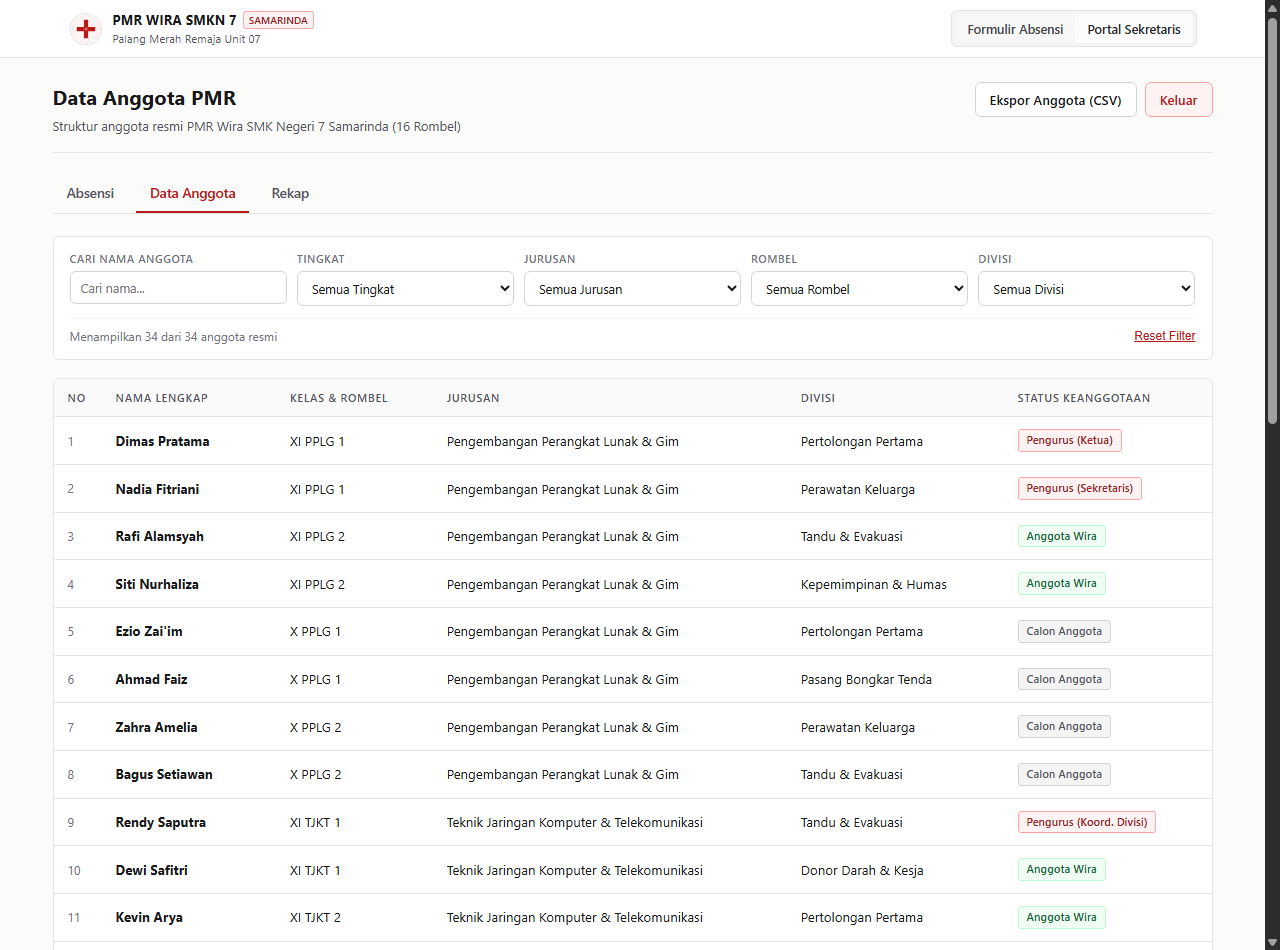
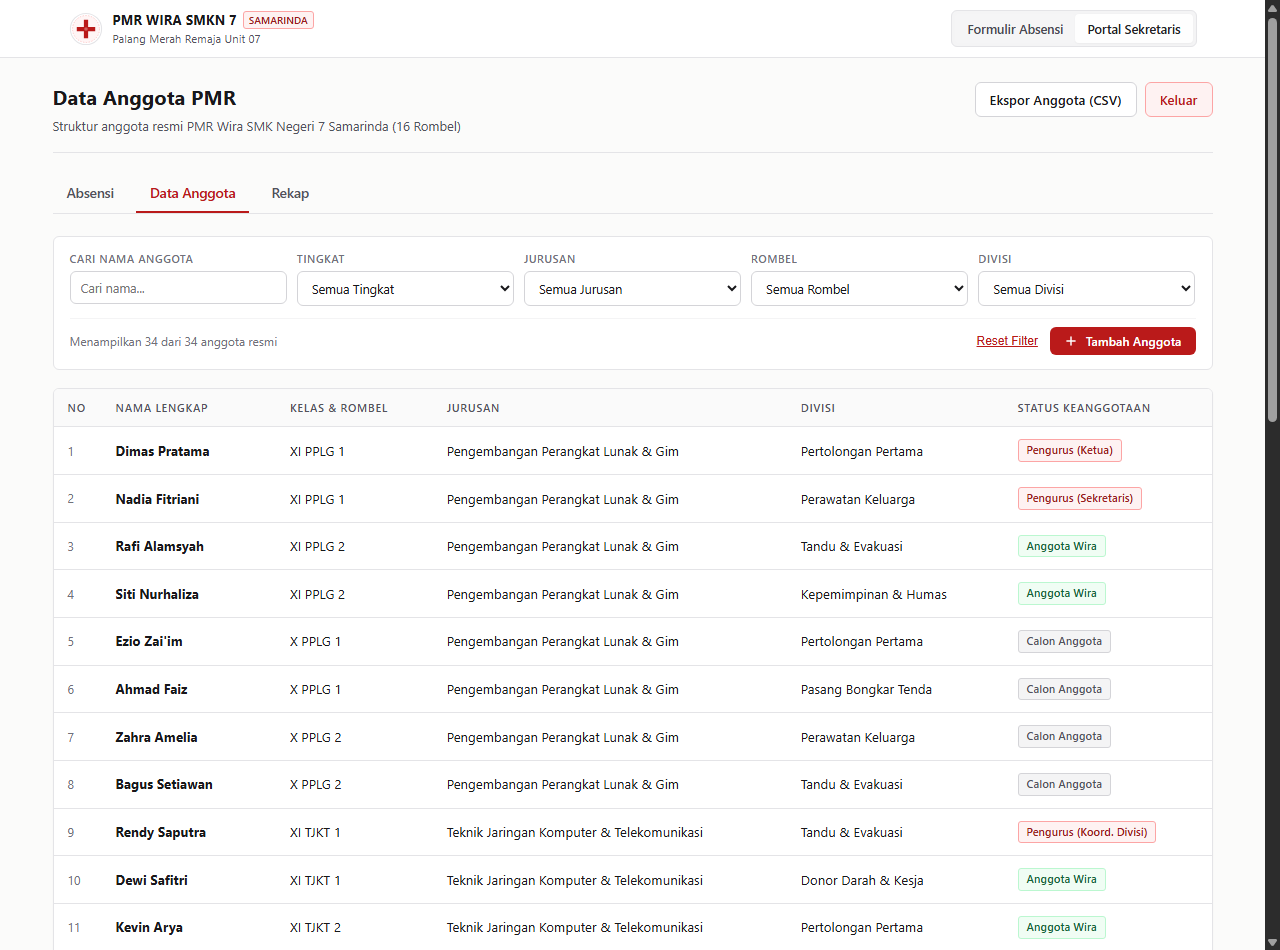
Update add fiture

diff --git a/js/app.js b/js/app.js
@@ -133,7 +133,8 @@ document.addEventListener('DOMContentLoaded', () => {
       return;
     }
 
-    state.filteredAutocompleteList = DUMMY_MEMBERS.filter(m => {
+    const allMembers = getStoredMembers();
+    state.filteredAutocompleteList = allMembers.filter(m => {
       return m.nama.toLowerCase().includes(cleanQuery) ||
              m.kelas.toLowerCase().includes(cleanQuery) ||
              m.jurusan.toLowerCase().includes(cleanQuery);
@@ -875,7 +876,8 @@ document.addEventListener('DOMContentLoaded', () => {
     const rombel = filterAnggotaRombel.value;
     const divisi = filterAnggotaDivisi.value;
 
-    return DUMMY_MEMBERS.filter(m => {
+    const allMembers = getStoredMembers();
+    return allMembers.filter(m => {
       if (q && !m.nama.toLowerCase().includes(q)) return false;
       if (tingkat !== 'all' && m.tingkat !== tingkat) return false;
       if (jurusan !== 'all' && m.jurusan !== jurusan) return false;
@@ -890,9 +892,10 @@ document.addEventListener('DOMContentLoaded', () => {
     const countEl = document.getElementById('anggotaCountText');
     if (!tbody) return;
 
+    const allMembers = getStoredMembers();
     const filtered = getFilteredMembers();
     tbody.innerHTML = '';
-    countEl.textContent = `Menampilkan ${filtered.length} dari ${DUMMY_MEMBERS.length} anggota resmi`;
+    countEl.textContent = `Menampilkan ${filtered.length} dari ${allMembers.length} anggota resmi`;
 
     if (filtered.length === 0) {
       tbody.innerHTML = `
@@ -947,8 +950,9 @@ document.addEventListener('DOMContentLoaded', () => {
     const jurusan = filterRekapJurusan.value;
     const divisi = filterRekapDivisi.value;
 
+    const allMembers = getStoredMembers();
     // Filter anggota sesuai kriteria
-    const members = DUMMY_MEMBERS.filter(m => {
+    const members = allMembers.filter(m => {
       if (tingkat !== 'all' && m.tingkat !== tingkat) return false;
       if (jurusan !== 'all' && m.jurusan !== jurusan) return false;
       if (divisi !== 'all' && m.divisi !== divisi) return false;
@@ -1095,11 +1099,151 @@ document.addEventListener('DOMContentLoaded', () => {
     });
   }
 
+  // =========================================================================
+  // MODAL 3: TAMBAH ANGGOTA BARU (PORTAL SEKRETARIS)
+  // =========================================================================
+  const openAddMemberModalBtn = document.getElementById('openAddMemberModalBtn');
+  const addMemberModal = document.getElementById('addMemberModal');
+  const addMemberModalCloseBtn = document.getElementById('addMemberModalCloseBtn');
+  const addMemberModalCancelBtn = document.getElementById('addMemberModalCancelBtn');
+  const addMemberForm = document.getElementById('addMemberForm');
+  const newMemberNama = document.getElementById('newMemberNama');
+  const newMemberNamaError = document.getElementById('newMemberNamaError');
+  const newMemberTingkat = document.getElementById('newMemberTingkat');
+  const newMemberJurusan = document.getElementById('newMemberJurusan');
+  const newMemberRombel = document.getElementById('newMemberRombel');
+  const newMemberDivisi = document.getElementById('newMemberDivisi');
+  const newMemberStatus = document.getElementById('newMemberStatus');
+  const addMemberSuccessToast = document.getElementById('addMemberSuccessToast');
+  const addMemberSuccessToastText = document.getElementById('addMemberSuccessToastText');
+
+  function updateNewMemberRombelOptions() {
+    if (!newMemberRombel || !newMemberTingkat || !newMemberJurusan) return;
+    const selectedTingkat = newMemberTingkat.value;
+    const selectedJurusan = newMemberJurusan.value;
+
+    const matchingRombels = ROMBEL_LIST.filter(r => r.tingkat === selectedTingkat && r.jurusan === selectedJurusan);
+    newMemberRombel.innerHTML = '';
+    matchingRombels.forEach(r => {
+      const opt = document.createElement('option');
+      opt.value = r.id;
+      opt.textContent = r.label;
+      newMemberRombel.appendChild(opt);
+    });
+  }
+
+  function openAddMemberModal() {
+    if (!addMemberModal) return;
+    newMemberNama.value = '';
+    newMemberNamaError.style.display = 'none';
+
+    if (newMemberDivisi) {
+      newMemberDivisi.innerHTML = '';
+      DIVISI_LIST.forEach(d => {
+        const opt = document.createElement('option');
+        opt.value = d;
+        opt.textContent = d;
+        newMemberDivisi.appendChild(opt);
+      });
+    }
+
+    newMemberTingkat.value = 'X';
+    newMemberJurusan.value = 'PPLG';
+    updateNewMemberRombelOptions();
+
+    addMemberModal.classList.add('show');
+    setTimeout(() => newMemberNama.focus(), 100);
+  }
+
+  function closeAddMemberModal() {
+    if (addMemberModal) {
+      addMemberModal.classList.remove('show');
+    }
+  }
+
+  if (openAddMemberModalBtn) {
+    openAddMemberModalBtn.addEventListener('click', openAddMemberModal);
+  }
+
+  if (addMemberModalCloseBtn) {
+    addMemberModalCloseBtn.addEventListener('click', closeAddMemberModal);
+  }
+
+  if (addMemberModalCancelBtn) {
+    addMemberModalCancelBtn.addEventListener('click', closeAddMemberModal);
+  }
+
+  if (newMemberTingkat) {
+    newMemberTingkat.addEventListener('change', updateNewMemberRombelOptions);
+  }
+
+  if (newMemberJurusan) {
+    newMemberJurusan.addEventListener('change', updateNewMemberRombelOptions);
+  }
+
+  if (newMemberNama) {
+    newMemberNama.addEventListener('input', () => {
+      if (newMemberNama.value.trim()) {
+        newMemberNamaError.style.display = 'none';
+      }
+    });
+  }
+
+  if (addMemberForm) {
+    addMemberForm.addEventListener('submit', (e) => {
+      e.preventDefault();
+
+      const namaVal = newMemberNama.value.trim();
+      if (!namaVal) {
+        newMemberNamaError.style.display = 'block';
+        newMemberNama.focus();
+        return;
+      }
+
+      const tingkatVal = newMemberTingkat.value;
+      const jurusanVal = newMemberJurusan.value;
+      const rombelVal = newMemberRombel.value;
+      const divisiVal = newMemberDivisi.value;
+      const statusVal = newMemberStatus.value;
+
+      const newMember = {
+        nama: namaVal,
+        tingkat: tingkatVal,
+        jurusan: jurusanVal,
+        kelas: rombelVal,
+        divisi: divisiVal,
+        status: statusVal
+      };
+
+      // Simpan langsung ke database/localStorage
+      saveMemberRecord(newMember);
+
+      closeAddMemberModal();
+
+      // Refresh tabel anggota & rekap
+      renderAnggotaTable();
+      renderRekapTable();
+
+      // Tampilkan toast notifikasi berhasil
+      if (addMemberSuccessToast && addMemberSuccessToastText) {
+        const jurObj = JURUSAN_LIST.find(j => j.id === jurusanVal);
+        const jurLabel = jurObj ? jurObj.nama : jurusanVal;
+        addMemberSuccessToastText.textContent = `Anggota "${namaVal}" (${rombelVal} • ${jurLabel}) berhasil disimpan ke database.`;
+        addMemberSuccessToast.style.display = 'block';
+
+        setTimeout(() => {
+          addMemberSuccessToast.style.display = 'none';
+        }, 5000);
+      }
+    });
+  }
+
   // Tutup Modal dengan tombol ESC
   window.addEventListener('keydown', (e) => {
     if (e.key === 'Escape') {
       closeConfirmModal();
       closeDetailModal();
+      closeAddMemberModal();
     }
   });
 
@@ -1111,7 +1255,7 @@ document.addEventListener('DOMContentLoaded', () => {
     const memberIdParam = searchParams.get('member');
 
     if (memberIdParam) {
-      const found = DUMMY_MEMBERS.find(m => m.id === memberIdParam);
+      const found = getStoredMembers().find(m => m.id === memberIdParam);
       if (found) selectMember(found);
     } else if (searchQuery && searchInput) {
       searchInput.value = searchQuery;
@@ -1134,6 +1278,14 @@ document.addEventListener('DOMContentLoaded', () => {
       populateAdminFilterDropdowns();
       subnavLinks.forEach(l => l.classList.toggle('active', l.getAttribute('data-subview') === 'anggota'));
       renderActiveSecretaryView();
+    } else if (hash === '#admin-tambah-anggota') {
+      state.isSecretaryLoggedIn = true;
+      state.activeSubView = 'anggota';
+      switchMainTab('secretary');
+      populateAdminFilterDropdowns();
+      subnavLinks.forEach(l => l.classList.toggle('active', l.getAttribute('data-subview') === 'anggota'));
+      renderActiveSecretaryView();
+      openAddMemberModal();
     } else if (hash === '#admin-rekap') {
       state.isSecretaryLoggedIn = true;
       state.activeSubView = 'rekap';

diff --git a/test-suite.html b/test-suite.html
@@ -88,6 +88,27 @@
     const updatedCount = getStoredAttendance().length;
     assert(updatedCount === initialCount + 1, 'Data presensi baru berhasil disimpan ke penyimpanan dan dapat dibaca kembali');
 
+    // 6. Uji Fitur Tambah Anggota Baru ke Database
+    const initialMemberCount = getStoredMembers().length;
+    const newMemberSample = {
+      nama: 'Muhammad Akbar Syahputra',
+      tingkat: 'X',
+      jurusan: 'PPLG',
+      kelas: 'X PPLG 2',
+      divisi: 'Pertolongan Pertama',
+      status: 'Calon Anggota'
+    };
+    saveMemberRecord(newMemberSample);
+    const updatedMemberList = getStoredMembers();
+    assert(updatedMemberList.length === initialMemberCount + 1, 'Anggota baru berhasil disimpan ke database (localStorage)');
+
+    const foundNewMember = updatedMemberList.find(m => m.nama === 'Muhammad Akbar Syahputra');
+    assert(foundNewMember && foundNewMember.kelas === 'X PPLG 2', 'Data anggota baru yang disimpan memiliki kelas dan atribut yang sesuai');
+
+    // 7. Uji Pencarian Autocomplete untuk Anggota Baru
+    const searchNew = updatedMemberList.filter(m => m.nama.toLowerCase().includes('akbar'));
+    assert(searchNew.length > 0 && searchNew[0].nama === 'Muhammad Akbar Syahputra', 'Anggota baru langsung dapat ditemukan lewat pencarian autocomplete');
+
     // Ringkasan
     const summary = document.createElement('div');
     summary.className = 'summary';

diff --git a/js/data.js b/js/data.js
@@ -275,6 +275,37 @@ const DUMMY_ATTENDANCE = [
 
 // In-memory / LocalStorage Store
 const STORAGE_KEY_ATTENDANCE = 'pmr_smkn7_attendance_records_v1';
+const STORAGE_KEY_MEMBERS = 'pmr_smkn7_members_v1';
+
+function getStoredMembers() {
+  try {
+    const raw = localStorage.getItem(STORAGE_KEY_MEMBERS);
+    if (raw) {
+      const parsed = JSON.parse(raw);
+      if (Array.isArray(parsed) && parsed.length > 0) {
+        return parsed;
+      }
+    }
+  } catch (e) {
+    console.warn('LocalStorage not available, fallback to dummy members', e);
+  }
+  return [...DUMMY_MEMBERS];
+}
+
+function saveMemberRecord(member) {
+  const current = getStoredMembers();
+  if (!member.id) {
+    const nextNum = current.length + 1;
+    member.id = `M-${String(nextNum).padStart(2, '0')}`;
+  }
+  const updated = [member, ...current];
+  try {
+    localStorage.setItem(STORAGE_KEY_MEMBERS, JSON.stringify(updated));
+  } catch (e) {
+    console.warn('LocalStorage member save failed', e);
+  }
+  return updated;
+}
 
 function getStoredAttendance() {
   try {

diff --git a/css/style.css b/css/style.css
@@ -1033,25 +1033,19 @@ body {
 }
 
 .modal-dialog {
-  background-color: var(--bg-surface);
+  background-color: #FFFFFF;
   border: 1px solid var(--border-subtle);
   border-radius: var(--radius-md);
   width: 100%;
   max-width: 520px;
   box-shadow: var(--shadow-modal);
   overflow: hidden;
-  animation: modalFadeIn 0.18s ease-out;
+  position: relative;
+  z-index: 101;
 }
 
-@keyframes modalFadeIn {
-  from {
-    opacity: 0;
-    transform: scale(0.97);
-  }
-  to {
-    opacity: 1;
-    transform: scale(1);
-  }
+.modal-body {
+  background-color: #FFFFFF;
 }
 
 .modal-header {

diff --git a/README.md b/README.md
@@ -75,8 +75,9 @@ Sesuai struktur akademik sekolah, sistem ini memetakan 16 rombongan belajar (8 r
   * Menampilkan log kehadiran real-time.
   * Filter gabungan: Pencarian nama, rentang tanggal, tingkat kelas (X / XI), jurusan, rombel spesifik, divisi PMR, dan jenis kegiatan.
   * Modal detail presensi yang menampilkan data lengkap beserta pratinjau tanda tangan digital anggota.
-* **Data Anggota:**
+* **Data Anggota & Tambah Anggota Baru:**
   * Direktori seluruh anggota aktif dan pengurus yang terdistribusi di 16 rombel sekolah.
+  * **Fitur Tambah Anggota:** Admin/Sekretaris dapat menambahkan anggota baru melalui modal khusus. Form secara cerdas menyesuaikan pilihan rombel sesuai tingkat kelas dan jurusan yang dipilih. Data langsung disimpan secara persisten ke database (localStorage), langsung muncul di tabel anggota dan rekap, serta dapat dicari secara instan di portal absensi anggota.
 * **Rekap Kehadiran:**
   * Ringkasan agregat frekuensi kehadiran per anggota (Latihan, Piket, Tugas Lain, Total, Status Keaktifan).
   * Bebas dari visualisasi grafik yang tidak diperlukan.
@@ -115,6 +116,7 @@ Aplikasi ini dibangun menggunakan standar web murni (HTML5, CSS modern, Vanilla 
    * `#secretary`: Membuka halaman login sekretaris
    * `#admin-absensi`: Membuka langsung tabel log presensi
    * `#admin-anggota`: Membuka langsung daftar data anggota
+   * `#admin-tambah-anggota`: Membuka modal tambah anggota baru
    * `#admin-rekap`: Membuka langsung tabel rekapitulasi kehadiran
    * `?search=E`: Simulasi pencarian autocomplete huruf "E"
    * `?member=M-05`: Simulasi pengisian otomatis anggota Ezio Zai'im (X PPLG 1)
